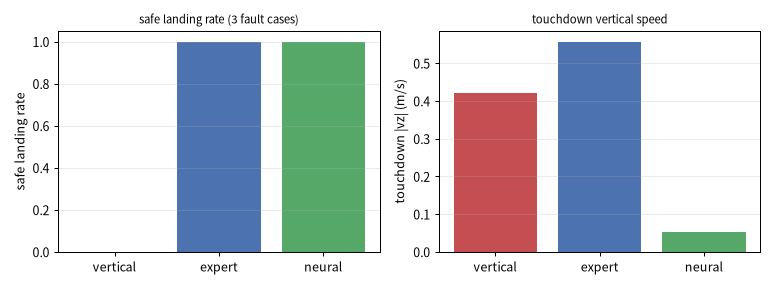
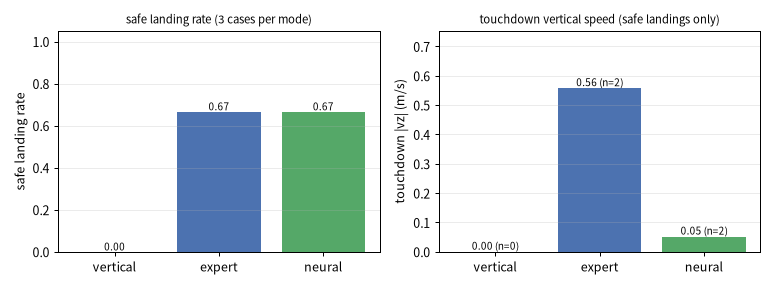
fix(air): 迫降评测补健康基线与越界工况，避免三组工况结果逐位相同
为什么改：

评审指出 §5 的三组工况（桨号不同、severity 0.5/0.3/0.2）里 vertical 与
expert 的结果逐位相同，只有 neural 随桨号变化，因此"垂直 0/3、选点 3/3"
这条结论没有独立实验支撑。

根因不是数据抄错，而是工况选得不合适：悬停时单桨要出 2.33 N，桨的指令上限
是 6.0 N，坏桨增益只要不低于 2.33/6.0≈0.39，加权分配层就能把坏桨指令从
2.33 N 加到 2.33/g，把故障完全补偿掉——所以三组都能补偿的工况跑出同一条轨迹
是预期行为，但这组数据确实无法区分策略。

改了什么：

* FLIGHT_PLANS 换成"健康基线 + 可补偿衰减（剩余 50%）+ 越过补偿边界
  （剩余 22%）"三组，9 行结果各不相同；
* LandingResult 新增 max_command_ratio（全程最大单桨指令占满量程比例），
  直接给出"故障被补偿到什么程度、有没有硬顶"的证据列：健康 0.40、
  剩余 50% 涨到 0.81、剩余 22% 顶到 1.00；
* FaultPlan.label() 带上剩余推力百分比，同名不同 severity 的工况不再看着像重复行；
* FaultPlan.onset_time() 对 healthy 也返回 onset（healthy 也要先建图再迫降，
  顺带修掉节点在 fault:=healthy 时把 None 拿去比较的隐患）；
* 汇总图左图改用 LandingResult.safe 判成功（原来"以 9.8 m/s 砸在空地上"也算成功），
  右图只统计安全落地那几次，避免越界工况把 0.56 与 0.05 m/s 的差别冲掉；
* 文档 §5 换成九行表，并说明"健康与剩余 50% 两行相同"是分配层补偿的结果，
  以及剩余推力低于 39% 时三种策略都会失败。

另外三条评审意见：

* results/.gitignore 去掉 UTF-8 BOM（原内容 \xef\xbb\xbf*.npz 导致 *.npz 实际没被忽略，
  现 git check-ignore 能命中）；
* package.xml 去掉 ament_pytest（不是 rosdep 包名），保留 python3-pytest；
* docs/index.md 新增条目后补空行，与其他条目一致。

验证：

* python main.py --eval -> 9 行结果各不相同，写入 results/landing_comparison.json；
* python -m pytest test -q -> 23 passed, 1 skipped；
* python main.py --selftest -> 32 OK / 0 FAIL（Linux 下同样通过）；
* mkdocs build -> 通过，模块页 91549 B，三张图与首页链接都在。

diff --git a/src/air/uav_fault_emergency_landing/uav_fault_emergency_landing/evaluate.py b/src/air/uav_fault_emergency_landing/uav_fault_emergency_landing/evaluate.py
@@ -20,12 +20,19 @@ from . import controller as C
 from . import landing as L
 from . import mapping as M
 
-#: 默认评测的故障工况。选的都是"还能飞、但任务已经不该继续"的情形：
-#: 推力衰减到一半、桨卡死，以及一个物理上救不回来的单桨全失效（用来划边界）。
+#: 默认评测的故障工况：健康基线 + 两组不同严重度的单桨衰减。
+#:
+#: 悬停时单桨要出 2.33 N，桨的指令上限是 6.0 N，所以坏桨增益低于
+#: ``2.33 / 6.0 ≈ 0.39``（即 severity > 0.61）时，分配层再怎么加大坏桨指令
+#: 也补不回来——这时才会出现倾斜与饱和。
+#:
+#: * ``healthy``：没有故障，用来证明"选点"本身带来的差别，而不是故障带来的；
+#: * ``degradation@2`` severity 0.5（剩余 50%）：仍可被分配层完全补偿；
+#: * ``degradation@0`` severity 0.78（剩余 22%）：越过补偿边界，指令饱和。
 FLIGHT_PLANS = (
-    ("degradation@2", dict(kind="degradation", rotor=2, severity=0.5)),
-    ("degradation@1", dict(kind="degradation", rotor=1, severity=0.3)),
-    ("degradation@0", dict(kind="degradation", rotor=0, severity=0.2)),
+    ("healthy", dict(kind="healthy", onset=2.0)),
+    ("degradation@2", dict(kind="degradation", rotor=2, severity=0.50)),
+    ("degradation@0", dict(kind="degradation", rotor=0, severity=0.78)),
 )
 
 #: 姿态超过这个角度就算失控
@@ -71,6 +78,9 @@ class LandingResult:
     target_error: float = float("nan")
     steps: int = 0
     min_clearance: float = float("inf")
+    #: 全程最大的单桨指令占满量程的比例。> 1.0 说明分配层已经在硬顶，
+    #: 这一列是用来解释"为什么有的工况轨迹一样、有的不一样"的。
+    max_command_ratio: float = 0.0
     times: List[float] = field(default_factory=list)
     altitudes: List[float] = field(default_factory=list)
     targets: List[Optional[np.ndarray]] = field(default_factory=list)
@@ -102,6 +112,7 @@ class LandingResult:
             "触地倾角deg": round(self.touchdown_tilt, 1),
             "落点误差m": None if np.isnan(self.target_error) else round(self.target_error, 2),
             "最大倾角deg": round(self.max_tilt, 1),
+            "最大指令比例": round(self.max_command_ratio, 2),
         }
 
 
@@ -239,6 +250,9 @@ def run_landing(api, mode: str = "expert", plan_spec: Optional[Dict[str, Any]] =
         # 指令 → 真实推力（故障后的桨只能给出 g·u + b），再交给 MuJoCo
         actual = np.clip(commands * gains + (0.0 if bias is None else bias),
                          0.0, params.max_thrust)
+        if float(np.max(commands)) > 0.0:
+            result.max_command_ratio = max(
+                result.max_command_ratio, float(np.max(commands)) / float(params.max_thrust))
         quad.apply_rotor_thrust(actual)
         quad.step(1)
         state = quad.state()
@@ -337,6 +351,7 @@ def aggregate(results: List[LandingResult]) -> List[Dict[str, Any]]:
             "平均落点误差m": round(float(np.mean(errors)), 2) if errors else None,
             "平均迫降耗时s": round(float(np.mean([r.touchdown_time or 0.0 for r in group])), 1),
             "最大倾角deg": round(float(np.max([r.max_tilt for r in group])), 1),
+            "平均最大指令比例": round(float(np.mean([r.max_command_ratio for r in group])), 2),
         })
     return out
 

diff --git a/src/air/uav_fault_emergency_landing/uav_fault_emergency_landing/render.py b/src/air/uav_fault_emergency_landing/uav_fault_emergency_landing/render.py
@@ -213,21 +213,34 @@ def make_summary_png(results: Iterable[E.LandingResult], out_path: str, dpi: int
             plans.append(r.plan)
     success = []
     vz = []
+    n_safe = []
     for mode in modes:
         sel = [r for r in rows if r.mode == mode]
-        ok = [0 if (not r.landed or r.landed_on_obstacle) else 1 for r in sel]
+        # 用 LandingResult.safe 判"安全迫降"：包含触地速度与倾角包线，
+        # 否则"以 9.8 m/s 砸在空地上"也算成功，看不出策略差别。
+        ok = [1 if r.safe else 0 for r in sel]
         success.append(np.mean(ok) if ok else 0.0)
-        safe = [abs(r.touchdown_vz) for r in sel if r.landed]
-        vz.append(float(np.mean(safe)) if safe else 0.0)
+        # 只统计"真的安全落地"的那几次：越界工况会以 9.8 m/s 砸地，
+        # 混进平均里会把两种策略之间 0.56 vs 0.05 的差别冲掉。
+        good = [abs(r.touchdown_vz) for r in sel if r.safe]
+        n_safe.append(len(good))
+        vz.append(float(np.mean(good)) if good else 0.0)
 
     fig, axes = plt.subplots(1, 2, figsize=(8.6, 3.2), dpi=dpi)
     axes[0].bar(modes, success, color=[MODE_COLORS.get(m, "#4C72B0") for m in modes])
     axes[0].set_ylim(0.0, 1.05)
     axes[0].set_ylabel("safe landing rate")
-    axes[0].set_title(f"safe landing rate ({len(plans)} fault cases)", fontsize=9)
+    axes[0].set_title(f"safe landing rate ({len(plans)} cases per mode)", fontsize=9)
     axes[1].bar(modes, vz, color=[MODE_COLORS.get(m, "#4C72B0") for m in modes])
     axes[1].set_ylabel("touchdown |vz| (m/s)")
-    axes[1].set_title("touchdown vertical speed", fontsize=9)
+    axes[1].set_title("touchdown vertical speed (safe landings only)", fontsize=9)
+    axes[1].set_ylim(0.0, max(vz + [0.1]) * 1.35)
+    for ax, values in ((axes[0], success), (axes[1], vz)):
+        for index, value in enumerate(values):
+            label = f"{value:.2f}"
+            if ax is axes[1]:
+                label += f" (n={n_safe[index]})"
+            ax.text(index, value, label, ha="center", va="bottom", fontsize=8)
     for ax in axes:
         ax.grid(alpha=0.25, axis="y")
     fig.tight_layout()

diff --git a/src/air/uav_fault_emergency_landing/uav_fault_emergency_landing/faults.py b/src/air/uav_fault_emergency_landing/uav_fault_emergency_landing/faults.py
@@ -99,8 +99,13 @@ class FaultPlan:
             b[self.rotor] = hover_thrust * self.alpha(t)
         return b
 
-    def onset_time(self) -> float | None:
-        return None if self.kind == "healthy" else float(self.onset)
+    def onset_time(self) -> float:
+        """任务段结束、开始迫降的时刻。
+
+        ``healthy`` 也返回 ``onset``：那时没有故障要注入，但这个时刻仍然是
+        "从悬停转到迫降"的分界点（节点和评测都用它切两个阶段）。
+        """
+        return float(self.onset)
 
     def label(self) -> str:
         if self.kind == "healthy":
@@ -108,6 +113,11 @@ class FaultPlan:
         text = f"{FAULT_CN[self.kind]}@桨{self.rotor}"
         if self.kind == "dual_loss":
             text += f"+桨{self.rotor2}"
+        # 表格里同名工况容易看着像重复行，把剩余推力一起写进标签
+        if self.kind in ("loss", "degradation", "stuck"):
+            text += f"（剩余推力{100.0 * (1.0 - self.severity):.0f}%）"
+        elif self.kind == "progressive":
+            text += f"（每秒衰减{self.severity:.2f}）"
         return text
 
 

diff --git a/docs/air/uav_fault_emergency_landing.md b/docs/air/uav_fault_emergency_landing.md
@@ -18,7 +18,7 @@
 ## 1. 问题：为什么不能直接往下掉
 
 `urban_block` 场景里最高的楼 10.68 m，而四旋翼在底座里**没有碰撞体**，会直接穿过楼板。
-把起飞点放在最高楼上方 13.7 m、故障在 `t = 2.0 s` 注入，三种策略的结果：
+把起飞点放在最高楼上方 13.7 m、故障在 `t = 2.0 s` 注入（单桨推力衰减，剩余 50%），三种策略的结果：
 
 | 策略 | 结果 | 触地时刻 | 触地垂直速度 | 落点误差 |
 | --- | --- | --- | --- | --- |
@@ -227,8 +227,29 @@ ros2 launch uav_fault_emergency_landing landing.launch.py mode:=neural rotor:=1
 
 ![三种模式对比](../img/air/uav_fault_emergency_landing/mode_summary.png)
 
-左：安全迫降率（垂直下降 0/3，两种选点策略 3/3）；右：触地垂直速度
-（神经制导 0.05 m/s，比专家律低一个量级）。
+左：安全迫降率（垂直下降 0/3；两种选点策略各 2/3，剩下那次是越过分配层补偿边界的工况）；
+右：**只统计真正安全落地的那几次**的触地垂直速度（神经制导 0.05 m/s，比专家律低一个量级）。
+
+三组工况的逐行数据（`python main.py --eval` 写入 `results/landing_comparison.json`）：
+
+| 模式 | 工况 | 结果 | 触地时刻 | 触地垂直速度 | 最大倾角 | 最大指令比例 |
+| --- | --- | --- | --- | --- | --- | --- |
+| vertical | 健康 | 撞到障碍物 | 12.88 s | 0.42 m/s | 0.0° | 0.40 |
+| vertical | 衰减@桨2（剩余 50%） | 撞到障碍物 | 12.88 s | 0.42 m/s | 0.0° | 0.81 |
+| vertical | 衰减@桨0（剩余 22%） | 硬着陆 | 4.97 s | 9.81 m/s | 26.7° | 1.00 |
+| expert | 健康 | 安全迫降 | 9.42 s | 0.56 m/s | 53.5° | 1.00 |
+| expert | 衰减@桨2（剩余 50%） | 安全迫降 | 9.42 s | 0.56 m/s | 63.1° | 1.00 |
+| expert | 衰减@桨0（剩余 22%） | 硬着陆 | 4.77 s | 9.79 m/s | 52.0° | 1.00 |
+| neural | 健康 | 安全迫降 | 10.10 s | 0.06 m/s | 50.4° | 1.00 |
+| neural | 衰减@桨2（剩余 50%） | 安全迫降 | 9.90 s | 0.05 m/s | 50.8° | 1.00 |
+| neural | 衰减@桨0（剩余 22%） | 硬着陆 | 4.78 s | 9.85 m/s | 49.1° | 1.00 |
+
+这张表里"健康"和"剩余 50%"两行数值几乎一样，不是重复实验，而是分配层把故障
+完全补偿掉了：悬停时单桨出 2.33 N，坏桨增益掉到 0.5 就把它的指令从 2.33 N 加到 4.66 N
+（"最大指令比例"从 0.40 涨到 0.81），有效推力与其他三桨一致，所以轨迹相同。
+把桨的指令上限 6.0 N 折算回去，增益低于 `2.33 / 6.0 ≈ 0.39`（剩余推力 < 39%）时
+就补不回来了——表里"剩余 22%"那组指令比例顶到 1.00，三种策略全部失败，
+垂直下降 4.97 s 就以 9.81 m/s 砸地，选点策略也只能慢 0.2 s 后同样硬着陆。
 
 ![迫降过程](../img/air/uav_fault_emergency_landing/landing_process.gif)
 

diff --git a/docs/index.md b/docs/index.md
@@ -477,6 +477,7 @@ ROS 2 QoS 兼容性检查实验：[chap2/ros2_qos_compatibility_lab](./chap2/ros
 * [无人机桨故障健康度估计](./air/uav_rotor_fault_detector_nn.md) —— 用机载 IMU 与控制器指令（13 维特征）经 1D-CNN+GRU 实时回归四桨剩余推力权限，单桨完全失效 0.10 s 检出、误报率 0，同时提供 ROS2 节点与在线估计接口
 
 * [无人机桨故障后的自主迫降](./air/uav_fault_emergency_landing.md) —— 下视深度相机在线建 2.5D 高度图，全卷积网络给"能不能落"打分选点，另一神经网络输出速度指令闭环飞过去；实测垂直下降穿楼、选点迫降安全着陆（触地垂直速度 0.05 m/s）
+
 * [无人机桨故障下的神经容错控制](./air/uav_neural_fault_tolerant_control.md) —— 几何控制器给出期望合推力与力矩，加权最小二乘按健康度重新分配到四桨（桨彻底失效时主动放弃偏航），再用 5252 参数的 MLP 学分配残差；12 次对比飞行里把跟踪误差降到 0.188 m（相对加权分配降 29%）而生存率不变
 
 * [无人机编队飞行](./air/uav_formation_flight.md) —— 长机按航点巡航、僚机保持队形（一字/纵队/三角可动态切换），三架共用一条 AirSim RPC，依次起飞、低空展开后进入任务

diff --git a/src/air/uav_fault_emergency_landing/README.md b/src/air/uav_fault_emergency_landing/README.md
@@ -29,6 +29,8 @@
 | 神经评分 + 神经制导 | 安全迫降 | 9.90 s | **0.05 m/s** | 0.04 m |
 
 神经制导的触地垂直速度比专家律低一个量级（0.05 vs 0.56 m/s），代价是慢 0.5 s。
+上面是"单桨衰减剩余 50%"那一组的结果；`--eval` 还会跑健康基线与越界组（剩余 22%），
+后者三种策略都会硬着陆，用来标出容错边界。完整九行数据见 `docs/air/uav_fault_emergency_landing.md`。
 
 ## 方法
 
